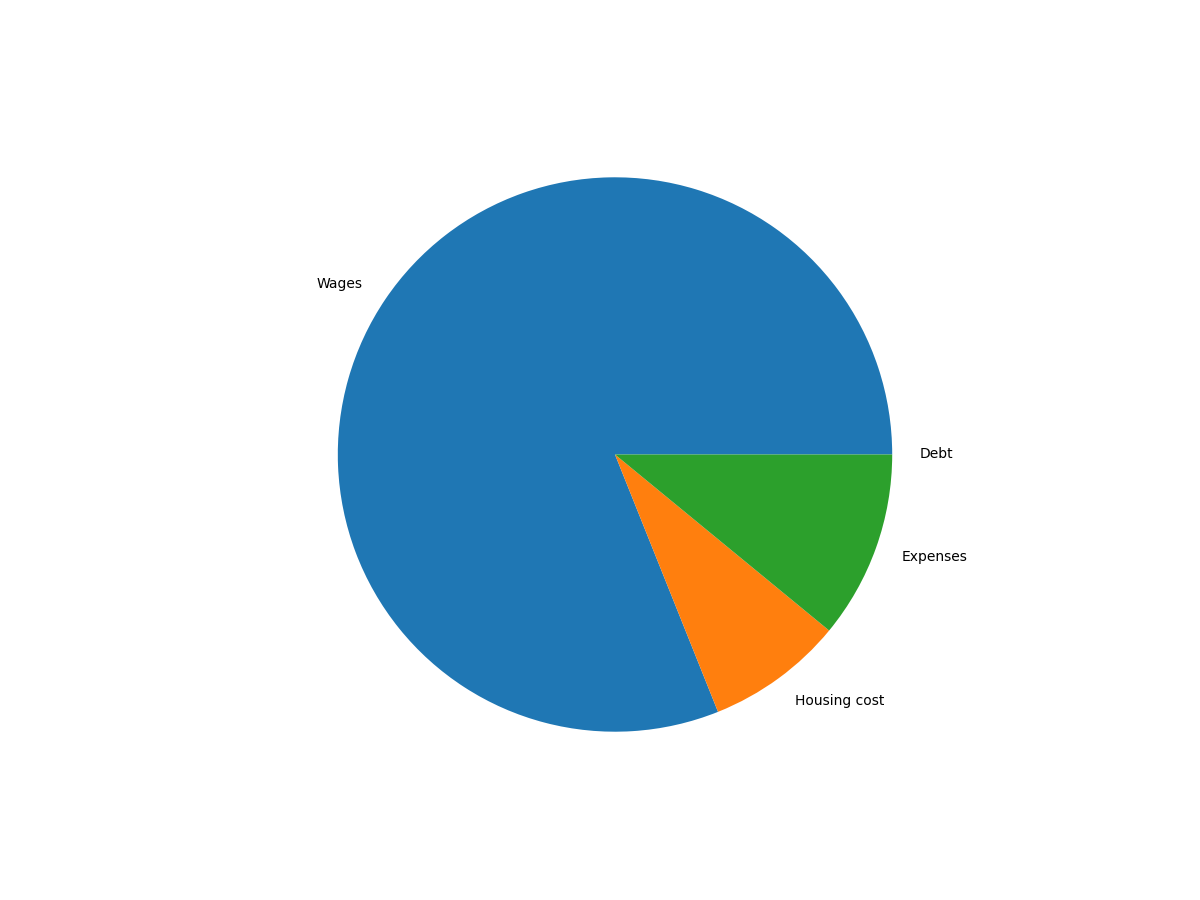
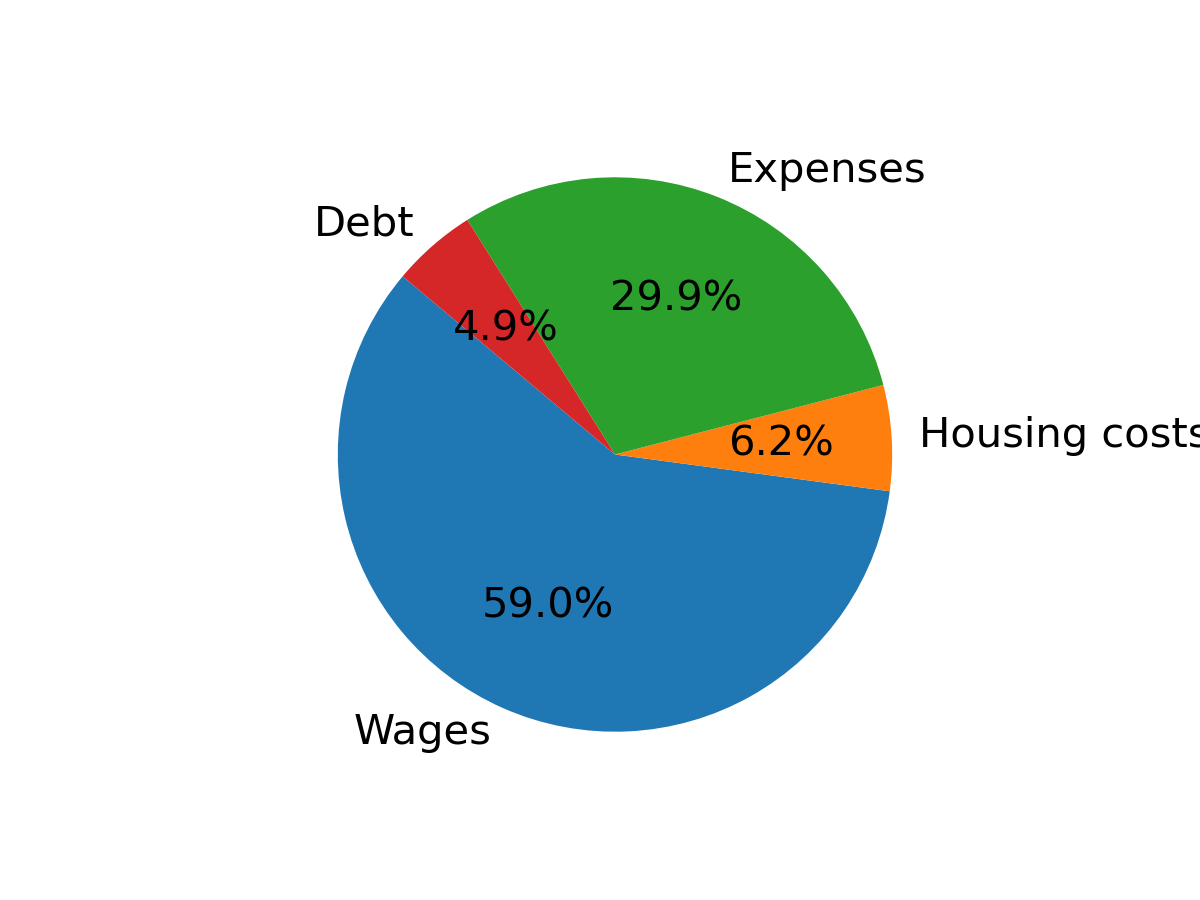
PDF working woo

diff --git a/internship project.py b/internship project.py
@@ -1,19 +1,14 @@
 import openai
-
 import pandas as pd
-from reportlab.pdfgen.canvas import Canvas
 from reportlab.lib.pagesizes import letter
-from reportlab.platypus import (SimpleDocTemplate, Paragraph, PageBreak, Image, Spacer, Table, TableStyle)
-from reportlab.lib.enums import TA_LEFT, TA_RIGHT, TA_CENTER, TA_JUSTIFY
-from reportlab.lib.styles import ParagraphStyle, getSampleStyleSheet
-from reportlab.lib.pagesizes import LETTER, inch
-from reportlab.graphics.shapes import Line, LineShape, Drawing
+from reportlab.platypus import (SimpleDocTemplate, Paragraph, Image, Spacer, Table, TableStyle)
+from reportlab.lib.enums import TA_LEFT, TA_CENTER
+from reportlab.lib.styles import ParagraphStyle
+from reportlab.lib.pagesizes import inch
+from reportlab.graphics.shapes import Line, Drawing
 from reportlab.lib.colors import Color
-import textwrap
 from matplotlib import pyplot as plt
-import numpy as np
 from datetime import datetime
-import math
 
 openai.api_key = "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"
 
@@ -60,7 +55,7 @@ mortgage_cost = map[21][1]
 property_insurance = map[22][1]
 property_insurance_cost = map[23][1]
 utilities_cost = map[24][1]
-expenses = map[25][1]
+expenses = map[25][1]*4
 assets = map[26][1]
 debt = map[27][1]
 debt_payment = map[28][1]
@@ -125,20 +120,18 @@ data_input = (f"{org_name} is a {fp_or_np} organization who gets the majority of
               f"they pay {wages} in wages, {housing_cost} in housing costs, and {total_expenses} in total expenses per year."
               f"In the last fiscal year, they had {rev_fy} in revenue, and were {profitability}; making {profit} in {p_l}."
               f"they have {employee_count} employees, {fte_count} of which full-time employees and {pte_count} of which "
-              f"were part time. Describe the organization's financial health and provide 1 or 2 recommendations for improvement."
+              f"were part time. Describe the organization's financial health and provide recommendations for improvement."
               f"Respond professionally in the third person.")
 
 response = (chat_gpt(f"{data_input}"))
-print(response)
 
-#--------------------------------------------------------------------------------------------------------------------
 # common things
 fontSize = 8
 green = Color((45.0 / 255), (166.0 / 255), (153.0 / 255), 1)
 blue = Color((54.0 / 255), (122.0 / 255), (179.0 / 255), 1)
 spacer = Spacer(10, 10)
-headerStyle = ParagraphStyle('Hed0', fontSize=14, alignment=TA_LEFT, borderWidth=3, textColor=blue)
-paragraphStyle = ParagraphStyle('Resume', fontSize=12, leading=14, justifyBreaks=1, alignment=TA_LEFT,justifyLastLine=1)
+headerStyle = ParagraphStyle('Hed0', fontSize = 14, alignment = TA_LEFT, borderWidth = 2, textColor = blue)
+paragraphStyle = ParagraphStyle('Resume', fontSize = 11, leading = 14, justifyBreaks = 1, alignment = TA_LEFT,justifyLastLine = 1)
 tableStyle = TableStyle([
     ('ALIGN', (0, 0), (0, -1), 'LEFT'),
     ("ALIGN", (1, 0), (1, -1), 'RIGHT'),
@@ -150,31 +143,19 @@ tableStyle = TableStyle([
 
 # DISPLAY PREP
 # Creating total expense chart
-totalExpensesDataSet = ['Wages', 'Housing cost', 'Expenses', 'Debt']
-
-# TODO figure out how to have if NAN? 0 else int
+totalExpensesDataSet = ['Wages', 'Housing costs', 'Expenses', 'Debt']
 wagesInt = wages
 housingInt = housing_cost
 expensesInt = expenses
 debtInt = debt_cost
-
 totalExpenseData = [wagesInt, housingInt, expensesInt, debtInt]
-fig = plt.figure(figsize=(12, 9))
-plt.pie(totalExpenseData, labels=totalExpensesDataSet)
+fig = plt.figure(figsize = (12, 9))
+plt.pie(totalExpenseData, labels = totalExpensesDataSet, textprops = {'fontsize': 30}, autopct = '%1.1f%%', startangle = 140)
 plt.savefig('totalExpense.png')
-
-# TODO same as above
-
-#Creating employment chart
-# totalSalaryDataSet = ['Full Time', 'Part Time', 'Contactor']
-# totalSalaryData = [fte_wages, pte_wages, contractor_wages]
-# fig = plt.figure(figsize=(10, 7))
-# plt.pie(totalSalaryData, labels=totalSalaryDataSet)
-# plt.savefig('totalSalary.png')
 
 # -----------------------------------------------------------------------------------------------
 # Create PDF
-doc = SimpleDocTemplate("Project_output.pdf", pagesize=letter)
+doc = SimpleDocTemplate("Project_output.pdf", pagesize = letter)
 elements = []
 
 # Title
@@ -192,54 +173,56 @@ d.add(line)
 elements.append(d)
 elements.append(spacer)
 
-# add total expense image
-img = Image('totalExpense.png', kind='proportional')
-img.drawHeight = 3 * inch
-img.drawWidth = 4 * inch
-img.hAlign = 'LEFT'
-elements.append(Paragraph('Expenses', headerStyle))
-elements.append(img)
-
-# add total expense image
-# img = Image('totalSalary.png', kind='proportional')
-# img.drawHeight = 3 * inch
-# img.drawWidth = 4 * inch
-# img.hAlign = 'LEFT'
-# elements.append(img)
-
-# TODO for multiple images see https://stackoverflow.com/questions/30227466/combine-several-images-horizontally-with-python for example
-
 # table data
-elements.append(Paragraph('Employment Data', headerStyle))
+elements.append(Paragraph('Annual Employment Data', headerStyle))
 elements.append(spacer)
-"""
-Create the line items
-"""
-d = []
-textData = ["Employee Type", "Full Time", "Part Time", "Contractors", "TOTAL"]
+elements.append(spacer)
 
-centered = ParagraphStyle(name="centered", alignment=TA_CENTER)
+d = []
+textData = ["Employment Type", "Full Time", "Part Time", "Contractors", "TOTAL"]
+
+centered = ParagraphStyle(name = "centered", alignment = TA_CENTER)
 for text in textData:
     d.append(Paragraph("<font size='%s'><b>%s</b></font>" % (fontSize, text), centered))
 
 data = [d]
-lineNum = 1
 formattedLineData = []
-alignStyle = [ParagraphStyle(name="01", alignment=TA_CENTER), ParagraphStyle(name="02", alignment=TA_CENTER), ParagraphStyle(name="03", alignment=TA_CENTER),
-              ParagraphStyle(name="04", alignment=TA_CENTER), ParagraphStyle(name="05", alignment=TA_CENTER)]
+alignStyle = [ParagraphStyle(name = "01", alignment = TA_CENTER), ParagraphStyle(name = "02", alignment = TA_CENTER), ParagraphStyle(name = "03", alignment = TA_CENTER),
+              ParagraphStyle(name = "04", alignment = TA_CENTER), ParagraphStyle(name = "05", alignment = TA_CENTER)]
 
-for row in range(3):
-    lineData = [str(lineNum), f"{fte_count}", f"{pte_count}", f"{contractor_count}", f"{employee_count} + "]
-    columnNumber = 0
-    for item in lineData:
-        formattedLineData.append(Paragraph("<font size='%s'>%s</font>" % (fontSize - 1, item), alignStyle[columnNumber]))
-        columnNumber = columnNumber + 1
-    data.append(formattedLineData)
-    formattedLineData = []
+# add row 1 data
+total_count = fte_count + pte_count + contractor_count
+lineData = ["Employed Persons", f"{fte_count}", f"{pte_count}", f"{contractor_count}", f"{total_count}"]
+columnNumber = 0
+for item in lineData:
+    formattedLineData.append(Paragraph("<font size='%s'>%s</font>" % (fontSize - 1, item), alignStyle[columnNumber]))
+    columnNumber = columnNumber + 1
+data.append(formattedLineData)
+formattedLineData = []
 
-table = Table(data, colWidths=[50, 80, 80, 80, 80])
+# add row 2 data
+total_salary = (fte_wages + pte_wages + contractor_wages )*4
+lineData = ["Wages Paid", f"${fte_wages*4}", f"${pte_wages*4}", f"${contractor_wages*4}", f"${total_salary}"]
+columnNumber = 0
+for item in lineData:
+    formattedLineData.append(Paragraph("<font size='%s'>%s</font>" % (fontSize - 1, item), alignStyle[columnNumber]))
+    columnNumber = columnNumber + 1
+data.append(formattedLineData)
+formattedLineData = []
+
+# add row 3 data
+lineData = ["Average wages paid per person", "-", "-", "-", f"${total_salary/total_count}"]
+columnNumber = 0
+for item in lineData:
+    formattedLineData.append(Paragraph("<font size='%s'>%s</font>" % (fontSize - 1, item), alignStyle[columnNumber]))
+    columnNumber = columnNumber + 1
+data.append(formattedLineData)
+formattedLineData = []
+
+table = Table(data, colWidths=[100, 80, 80, 80, 80])
 table.setStyle(tableStyle)
 elements.append(table)
+elements.append(spacer)
 
 # AI output formatted
 elements.append(Paragraph('Advice ', headerStyle))
@@ -247,7 +230,13 @@ elements.append(spacer)
 elements.append(Paragraph(response, paragraphStyle))
 elements.append(spacer)
 
-#elements.append(Paragraph("For questions please reach out to sevancoe@uw.edu", paragraphStyle))
+# add total expense image
+img = Image('totalExpense.png', kind = 'proportional')
+img.drawHeight = 2 * inch
+img.drawWidth = 3 * inch
+img.hAlign = 'LEFT'
+elements.append(Paragraph('Expenses', headerStyle))
+elements.append(spacer)
+elements.append(img)
 
 doc.build(elements)
-
